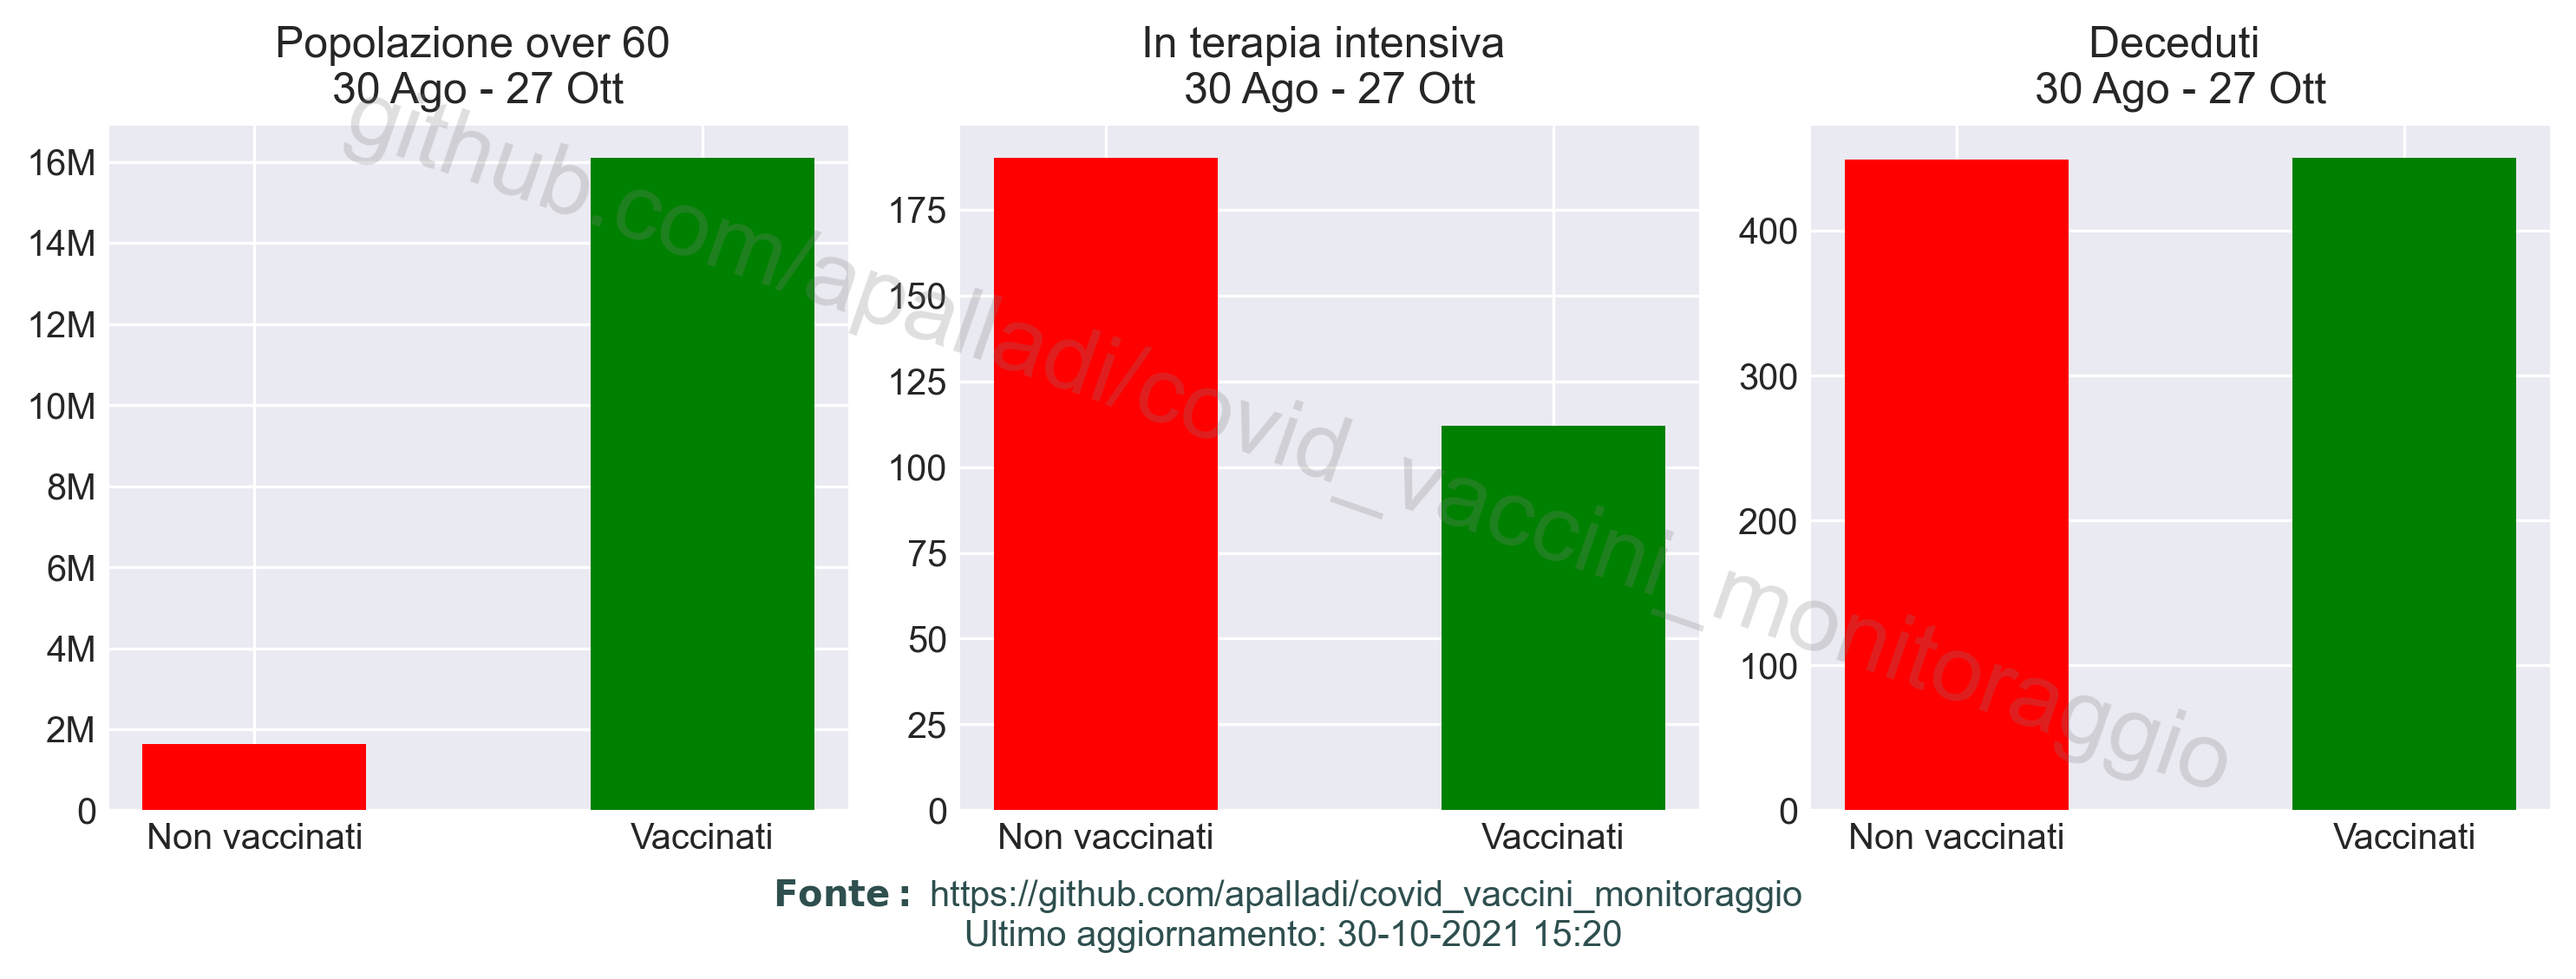
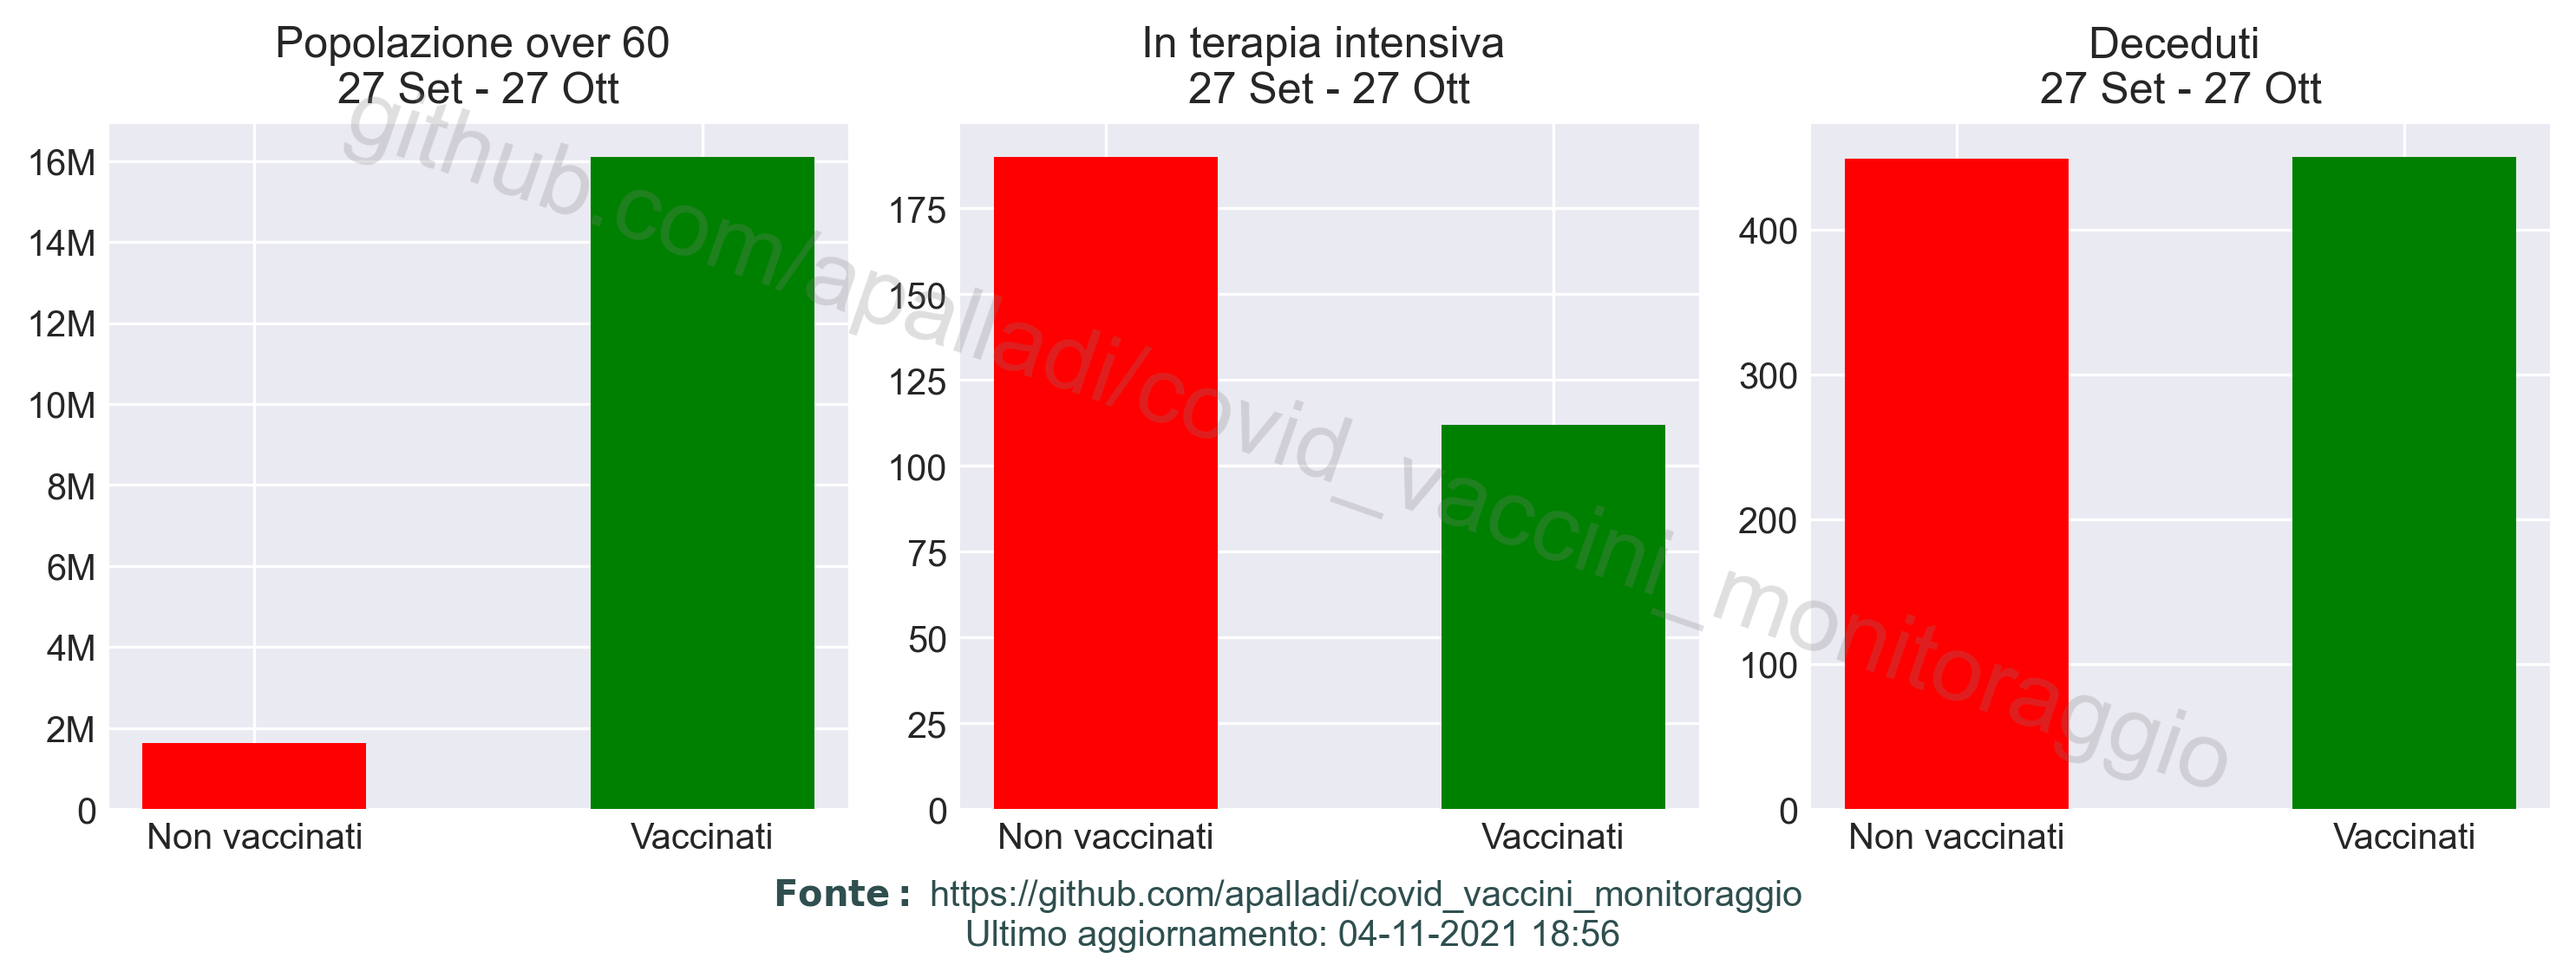
efficacia_vaccini.py: corretta data iniziale grafico focus over 60
fixes #39

diff --git a/scripts/efficacia_vaccini.py b/scripts/efficacia_vaccini.py
@@ -1,5 +1,6 @@
 # -*- coding: utf-8 -*-
 import locale
+from datetime import timedelta
 from os import chdir, path
 
 import matplotlib.pyplot as plt
@@ -45,11 +46,15 @@ def compute_efficacia():
 
 
 # Funzioni per il plot
-def get_label_month():
+def get_data_labels():
     """ Ricava label data dei grafici """
-    label_month = csv_date.strftime("%b").capitalize()
-    label_date = f"{csv_date_d} {label_month}"
-    return label_month, label_date
+    csv_date_start = csv_date - timedelta(days=30)
+    start_month = csv_date_start.strftime("%b").capitalize()
+    start_day = csv_date_start.strftime("%d")
+    start_date = f"{start_day} {start_month}"
+    end_month = csv_date.strftime("%b").capitalize()
+    end_date = f"{csv_date_d} {end_month}"
+    return start_date, end_date
 
 
 def which_axe(axis):
@@ -233,21 +238,21 @@ def plot_focus_60(show=False):
     plt.yticks(10**6*np.arange(0, 17, 2),
                ["0", "2M", "4M", "6M", "8M", "10M", "12M", "14M", "16M"])
     plt.grid()
-    plt.title(f"Popolazione over 60 \n30 Ago - {label_date}")
+    plt.title(f"Popolazione over 60 \n{start_date} - {end_date}")
 
     plt.subplot(1, 3, 2)
     plt.bar(0, over60_array[2], width=0.5, color="red")
     plt.bar(1, over60_array[3], width=0.5, color="green")
     plt.xticks([0, 1], ["Non vaccinati", "Vaccinati"])
     plt.grid()
-    plt.title(f"In terapia intensiva \n30 Ago - {label_date}")
+    plt.title(f"In terapia intensiva \n{start_date} - {end_date}")
 
     plt.subplot(1, 3, 3)
     plt.bar(0, over60_array[4], width=0.5, color="red")
     plt.bar(1, over60_array[5], width=0.5, color="green")
     plt.xticks([0, 1], ["Non vaccinati", "Vaccinati"])
     plt.grid()
-    plt.title(f"Deceduti \n30 Ago - {label_date}")
+    plt.title(f"Deceduti \n{start_date} - {end_date}")
 
     # Add watermarks
     ax = plt.gca()
@@ -287,7 +292,7 @@ if __name__ == "__main__":
 
     report_date, df_età, csv_date, csv_date_d = load_data()
 
-    label_month, label_date = get_label_month()
+    start_date, end_date = get_data_labels()
 
     # Ricava i tassi, dividendo per la popolazione vaccinati e non vaccinata
     df_tassi = compute_incidence(df_età)
